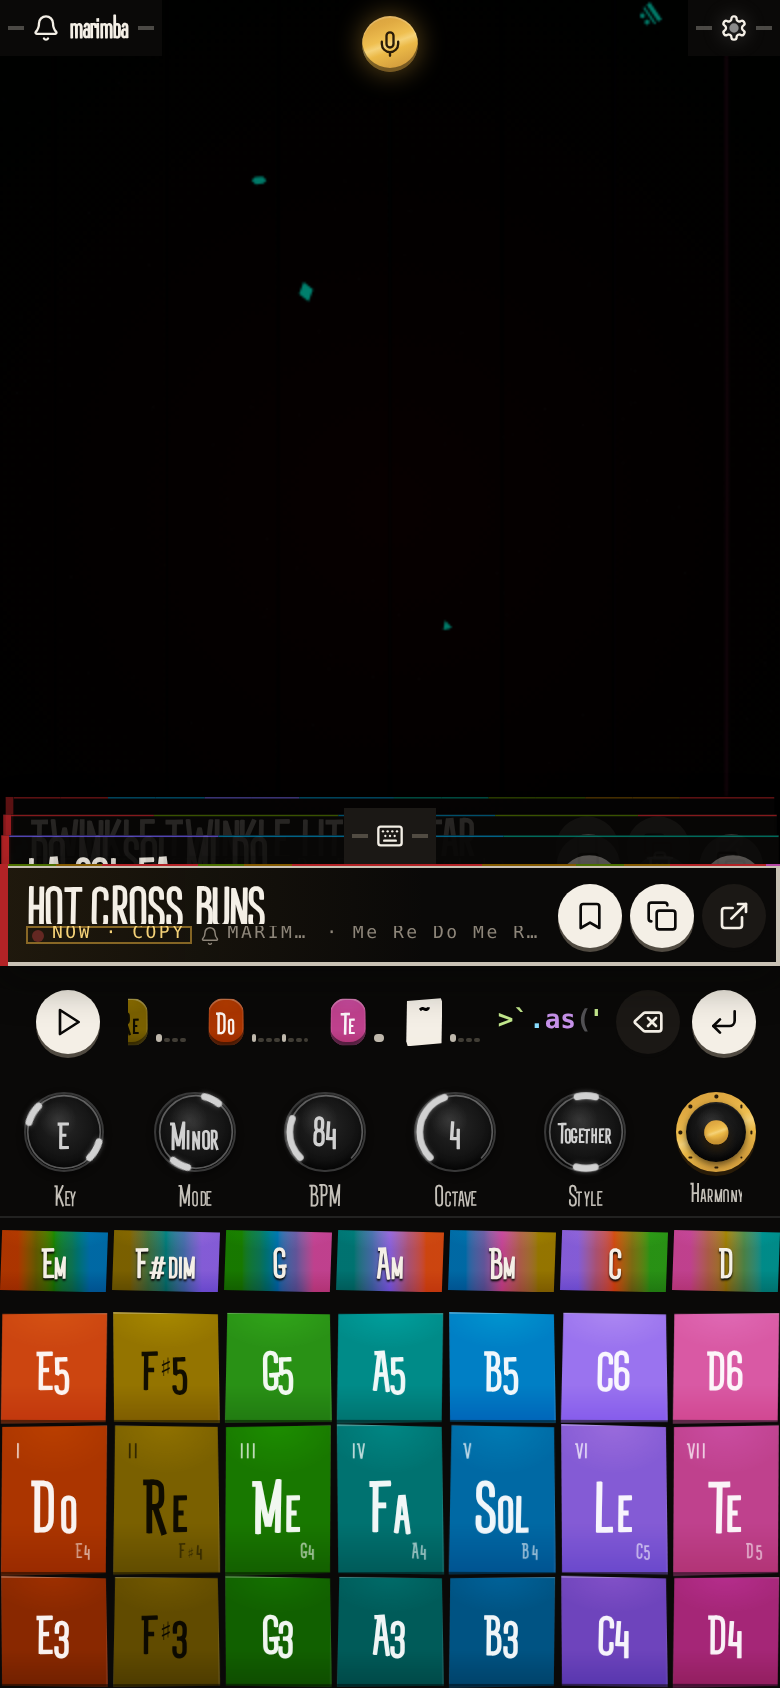
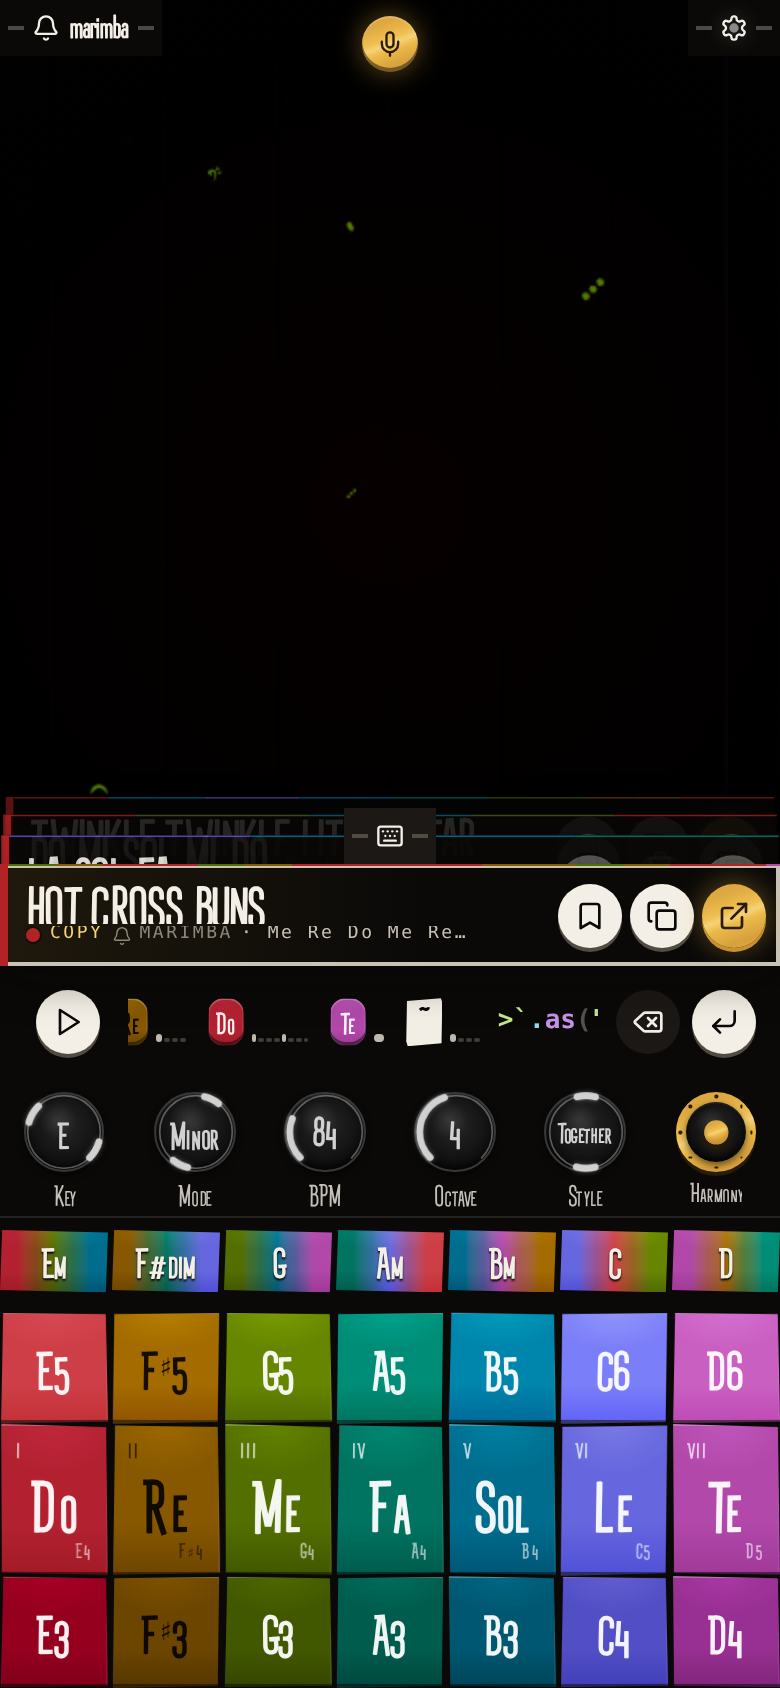
Describe the desk lamp in the phrase doc and refresh screenshots

diff --git a/docs/pattern-system-reimagined.md b/docs/pattern-system-reimagined.md
@@ -115,7 +115,7 @@ Patterns you sent with Return were quietly expiring.
   it; only where it lands loads. A phrase you are only looking at stays in its
   own place on the reel, wearing the brass desk edge there.
 - **Play over it: copy.** The first note (or Backspace) onto a Kept or Library
-  phrase makes a copy; the copy moves to the front tagged `NOW · COPY` and the
+  phrase makes a copy; the copy moves to the front tagged `COPY` and the
   original goes back to plain in its place. A Recent phrase simply continues.
 - **Scroll away from what you played: file it.** A take you played into goes
   to Recent, which sits between you and the front, never behind you. Moving
@@ -135,9 +135,17 @@ phrases shared one loop with no front and no back, so "where am I" had no
 answer. The new reel is a **linear tape with a fixed head**:
 
 - **The desk is where the reel is.** The strip the reel is on wears the brass
-  edge (the desk material) and a record lamp that glows while a key is down in
-  it. Looked at, it's tagged `ON DESK · LIBRARY` (or Kept, or Recent) in its own
-  place; played into, it's at the front, tagged `NOW` or `NOW · COPY`.
+  edge (the desk material). No label says "on the desk": the position already
+  does. A small lamp carries the state, beside one short word for where the
+  phrase lives:
+  - a hollow brass ring means it's loaded and you're only looking (`LIBRARY`,
+    `KEPT`, `3M AGO`)
+  - a filled lamp means it's yours (`NOW`, `COPY`), and it glows while a key is
+    down
+  - the lamp's colour is the phrase's root Music Color, never a brand colour,
+    because this is the playing zone
+  The first version used a boxed `ON DESK · LIBRARY` chip, which crowded the
+  instrument and solfège contour off a 390px strip.
 - **Depth = distance from now.** Behind the take: Recent (newest first), then
   Kept, then Library. The reel stops at both ends with a rubber-band instead
   of wrapping.
